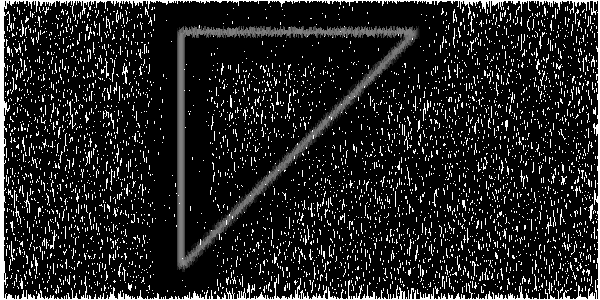
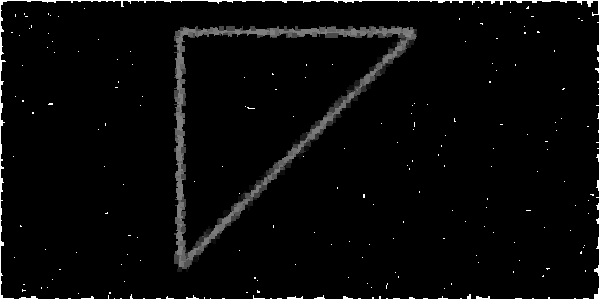
fixed a dumb bug that was causing pixel set values to only go vertically

diff --git a/Eyebot3/CornerModule.cs b/Eyebot3/CornerModule.cs
@@ -88,7 +88,7 @@ namespace Eyebot3
                     {
                         for (int j = -1 * pixelSpread + 1; j < pixelSpread; j++)
                         {
-                            perceivedImage.SetPixel(xLocation + 1, yLocation + j, Color.FromArgb(255, pixelBrightness, pixelBrightness, pixelBrightness));
+                            perceivedImage.SetPixel(xLocation + i, yLocation + j, Color.FromArgb(255, pixelBrightness, pixelBrightness, pixelBrightness));
                         }
                     }
                 }
